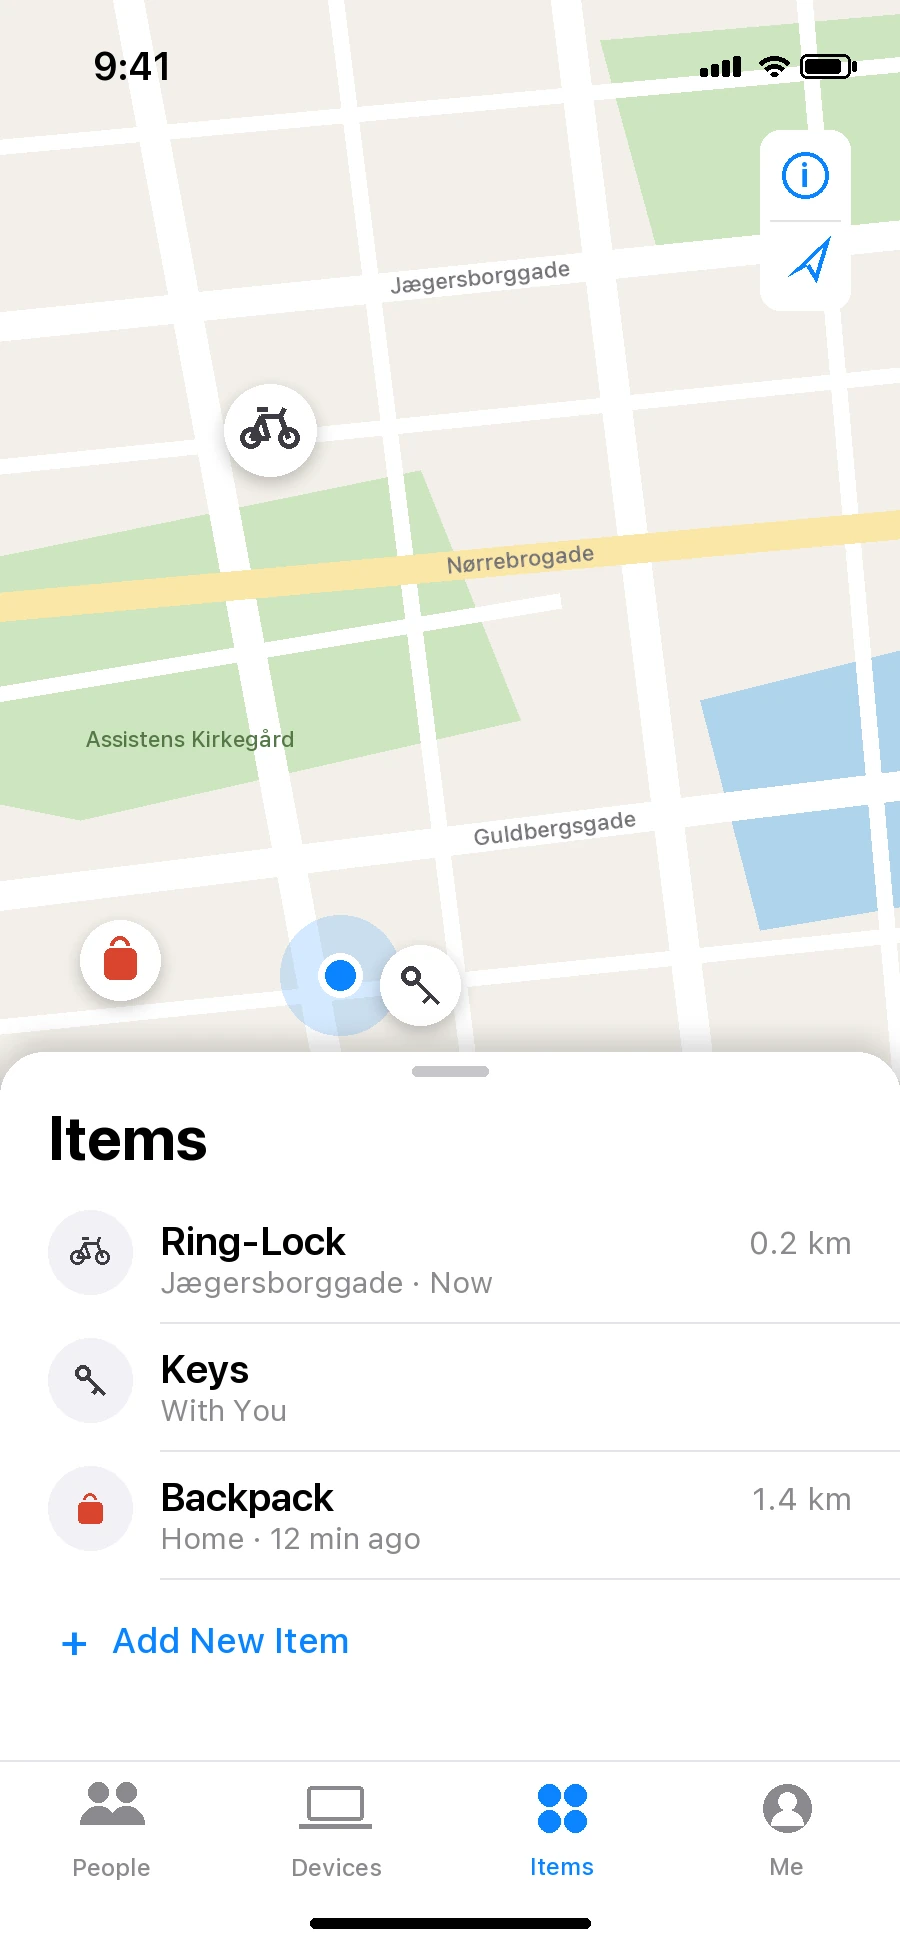
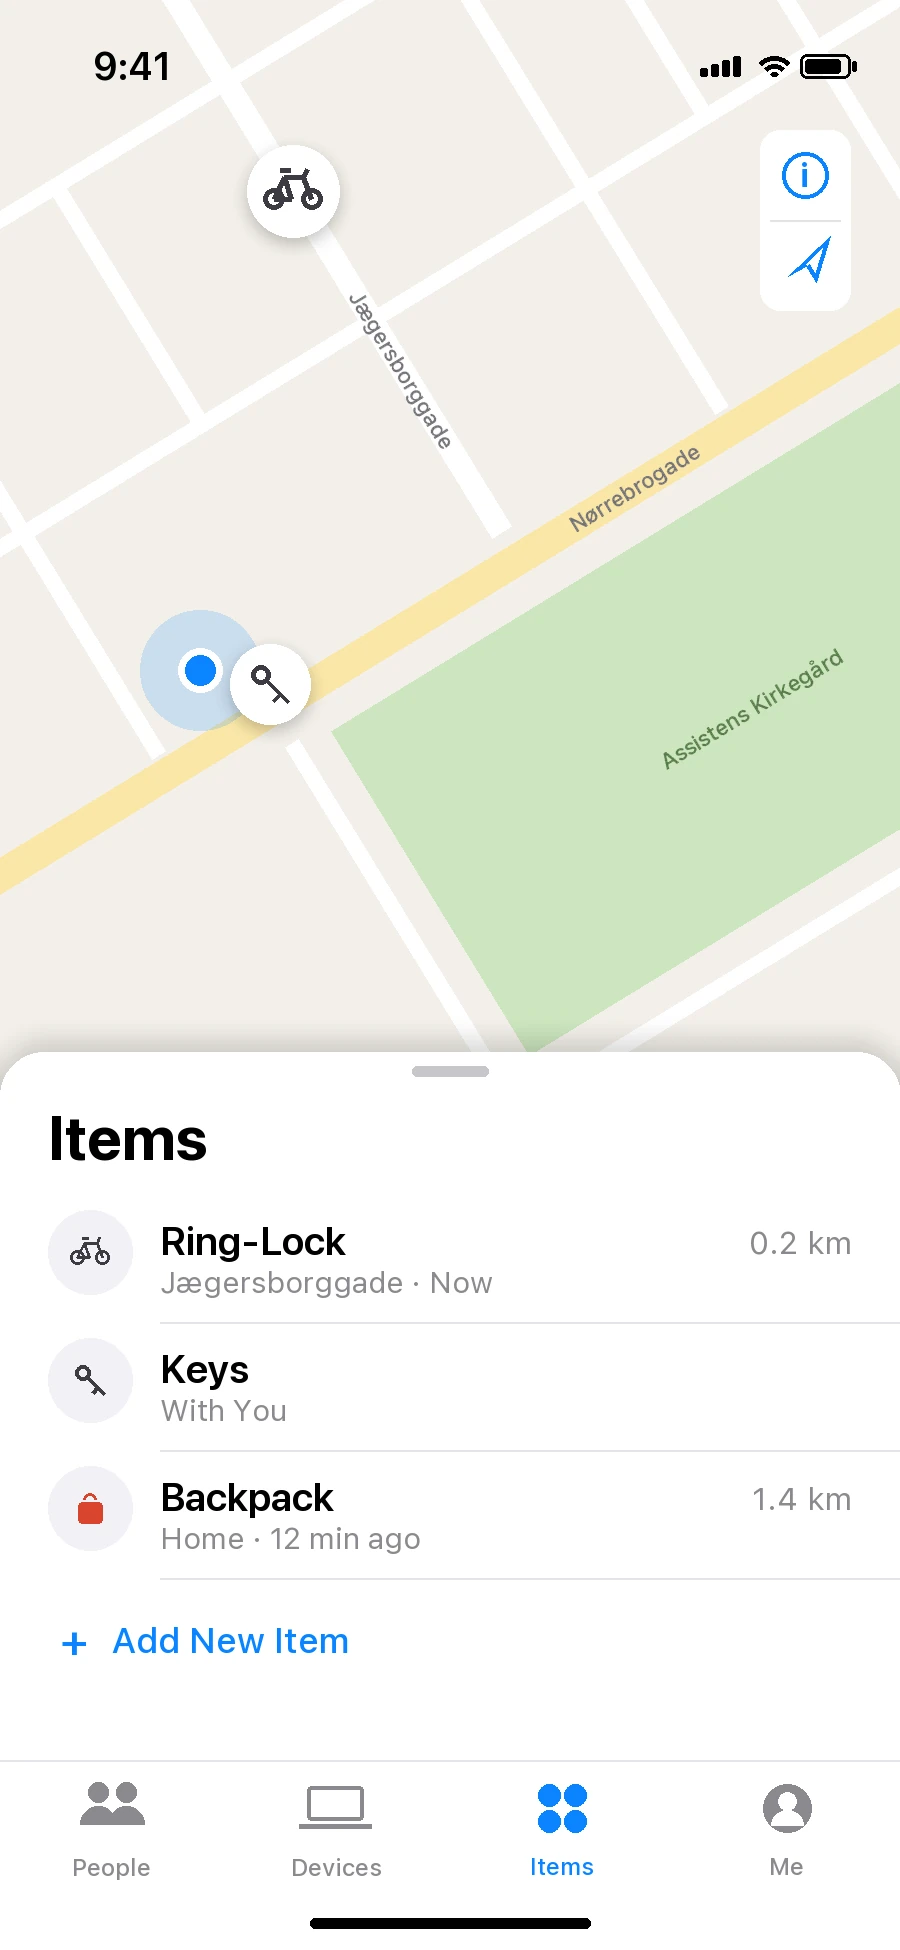
Find My screens: real Nørrebro map (Jægersborggade off Nørrebrogade, cemetery as one block)

diff --git a/index.html b/index.html
@@ -119,7 +119,7 @@
   <!-- find my: the phone rides with the lock, the bike lying on its map -->
   <div class="fmp">
     <!-- the Apple Find My Items screen, the Ring-Lock first in the list (the drawn map and sheet below stay for the script, hidden) -->
-    <img class="fmp__screen" src="images/story/findmy-screen.webp?v=3" alt="" decoding="async">
+    <img class="fmp__screen" src="images/story/findmy-screen.webp?v=4" alt="" decoding="async">
     <svg class="map" viewBox="590 300 520 1130" preserveAspectRatio="xMidYMin slice">
       <rect x="0" y="0" width="1600" height="1400" fill="#ECECEA"/>
       <path class="map__water" d="M1180 -20 C1150 120 1210 230 1170 360 C1135 470 1215 560 1240 690 C1262 800 1215 900 1250 1030 C1270 1150 1230 1260 1250 1400 L1620 1400 L1620 -20 Z"/>
@@ -199,7 +199,7 @@
   <section class="tale" id="moved" data-nav-section="intro" data-tone="dark" data-bg="#202F30" data-key='{"hide":1}' aria-labelledby="h1c">
     <div class="tale__pin">
       <figure class="tale__shot is-on" data-i="0"><picture><!-- Photo: Alexander Van Steenberge, Unsplash (lPIzhoapBek) --><source media="(max-width: 760px), (max-aspect-ratio: 1/1)" srcset="images/story/lost-m.webp"><img src="images/story/lost-wide.webp" alt="Endless rows of parked bikes in a bike garage, numbered pillars stretching into the distance" decoding="async"></picture></figure>
-      <figure class="tale__shot" data-i="1"><picture><source media="(max-width: 760px), (max-aspect-ratio: 1/1)" srcset="images/story/findmy-m.webp?v=7"><img src="images/story/findmy-wide.webp?v=8" alt="On her iPhone, a map shows where her bike is" decoding="async"></picture></figure>
+      <figure class="tale__shot" data-i="1"><picture><source media="(max-width: 760px), (max-aspect-ratio: 1/1)" srcset="images/story/findmy-m.webp?v=8"><img src="images/story/findmy-wide.webp?v=9" alt="On her iPhone, a map shows where her bike is" decoding="async"></picture></figure>
       <figure class="tale__shot" data-i="2"><picture><source media="(max-width: 760px), (max-aspect-ratio: 1/1)" srcset="images/story/unlock2-m.webp?v=4"><img src="images/story/unlock-wide.webp?v=5" alt="Standing at the bike, a hand holds the phone with the LAAS app and its Unlock button" decoding="async" loading="lazy"></picture></figure>
       <figure class="tale__shot" data-i="3"><picture><source media="(max-width: 760px), (max-aspect-ratio: 1/1)" srcset="images/story/offyougo-m.webp"><img src="images/story/offyougo-wide.webp" alt="A rider pedals off across a Copenhagen bridge" decoding="async" loading="lazy"></picture></figure>
       <div class="tale__copy">
